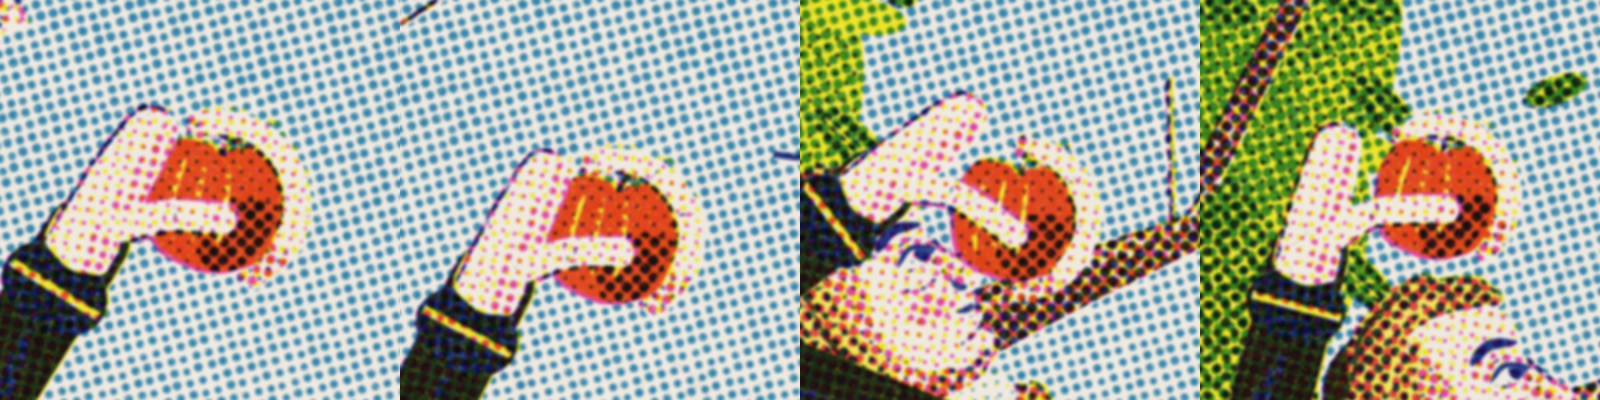
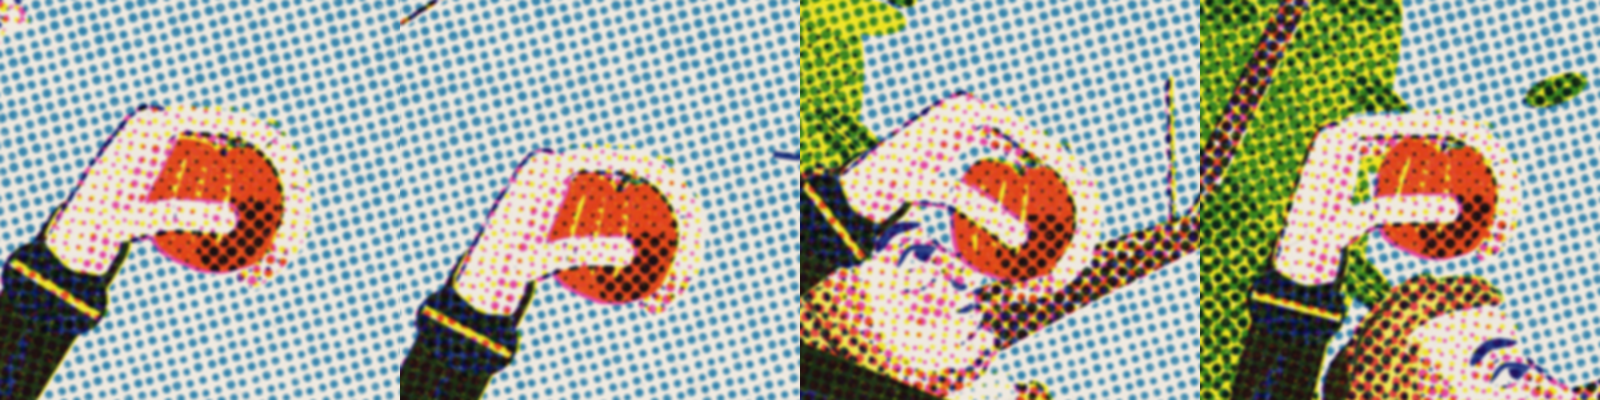
physics-history: Newton's fingers grow out of the knuckle at the end of the hand
Claude-Session: https://claude.ai/code/session_01FbC8jfwG91neyKwZD6gkGH

diff --git a/sandbox/2026-09-25-physics-history/figure.js b/sandbox/2026-09-25-physics-history/figure.js
@@ -189,7 +189,7 @@ const Fig = (() => {
             if (edge) { const ol = Ph.outline(P, wd * R), h = ol.length / 2; line(press, ol.slice(0, h), taper(lw, 0.1, 0.1), EDGE, { knock: false }); }
         };
         // the fingers behind the index: their tips stepped along the apple's front
-        for (const [t1, dt] of [[2.1, 0.5], [1.85, 0.3], [1.6, 0.15]]) dig(arc(-0.9 + dt, t1, 1.18), 0.38, sh, false);
+        for (const [t1, dt] of [[2.1, 0.5], [1.85, 0.3], [1.6, 0.15]]) dig([X(1.9, 0.1 + dt * 0.3)].concat(arc(-0.4 + dt, t1, 1.18)), 0.38, sh, false);
         held(press, X(C[0], C[1]));
         // the back of the hand, edge-on: a band as thick as a hand, the knuckle's bump at its end
         const BAND = [X(-0.35, -0.5), X(0.8, -0.52), X(1.75, -0.45), X(2.12, -0.3), X(2.22, 0.02), X(2.0, 0.3), X(1.2, 0.4), X(0.3, 0.42), X(-0.35, 0.45)];
@@ -199,9 +199,10 @@ const Fig = (() => {
         press.restore();
         line(press, Ph.sample([X(-0.35, -0.5), X(0.8, -0.52), X(1.75, -0.45), X(2.12, -0.3), X(2.22, 0.02)], false, 6), taper(lw, 0.1, 0.1), EDGE, { knock: false });
         // the index: from the knuckle round the apple's far side to its front
-        const IX = arc(-0.55, 1.45, 1.2);
+        // (starting at the knuckle, at the end of the back of the hand, so the finger grows out of it)
+        const IX = [X(1.95, 0.05), X(2.25, 0.25)].concat(arc(-0.45, 1.45, 1.2).slice(1));
         dig(IX, 0.42, spec, true);
-        for (const k of [4, 8]) { const p = IX[k], q = IX[k + 1], an = Math.atan2(q[1] - p[1], q[0] - p[0]); line(press, [[p[0] - Math.sin(an) * R * 0.12, p[1] + Math.cos(an) * R * 0.12], [p[0] + Math.sin(an) * R * 0.12, p[1] - Math.cos(an) * R * 0.12]], taper(lw * 0.8), EDGE, { knock: false }); }
+        for (const k of [5, 9]) { const p = IX[k], q = IX[k + 1], an = Math.atan2(q[1] - p[1], q[0] - p[0]); line(press, [[p[0] - Math.sin(an) * R * 0.12, p[1] + Math.cos(an) * R * 0.12], [p[0] + Math.sin(an) * R * 0.12, p[1] - Math.cos(an) * R * 0.12]], taper(lw * 0.8), EDGE, { knock: false }); }
         // the thumb: from the heel, round the apple's near side, the nail at its tip
         // (seen from the index side the thumb is nearest: it crosses the apple's near face)
         const TH = [X(0.45, 0.35), X(0.95, 0.85), on(2.2, 0.25)];
